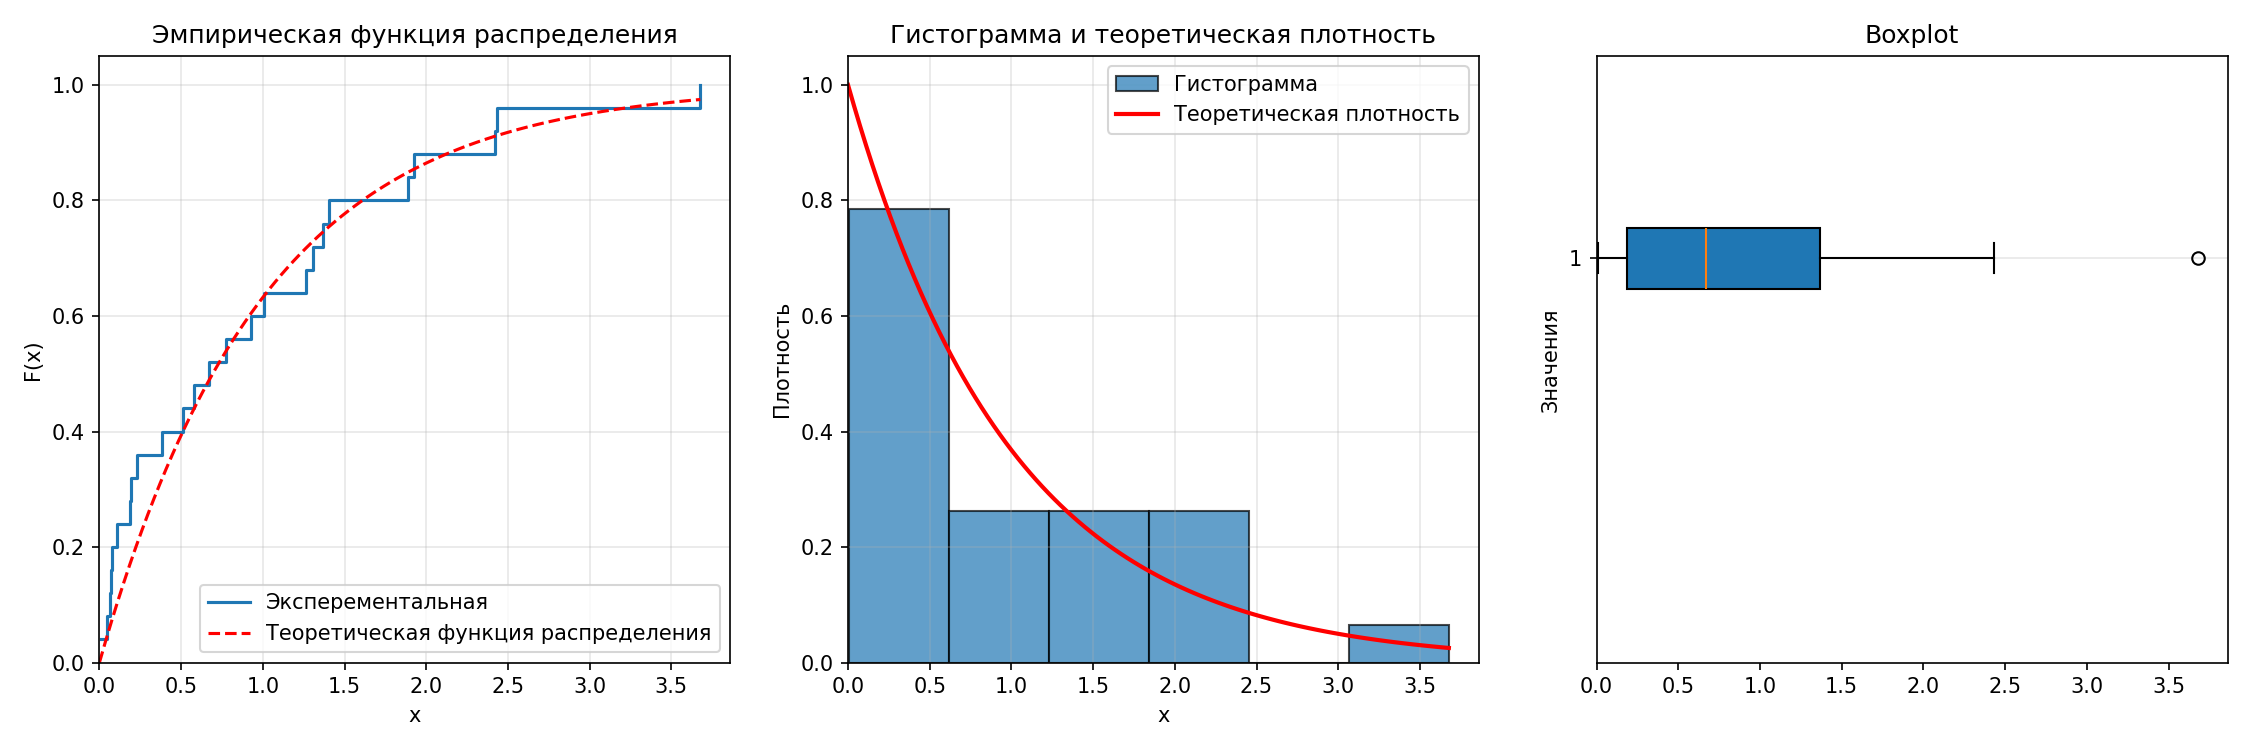
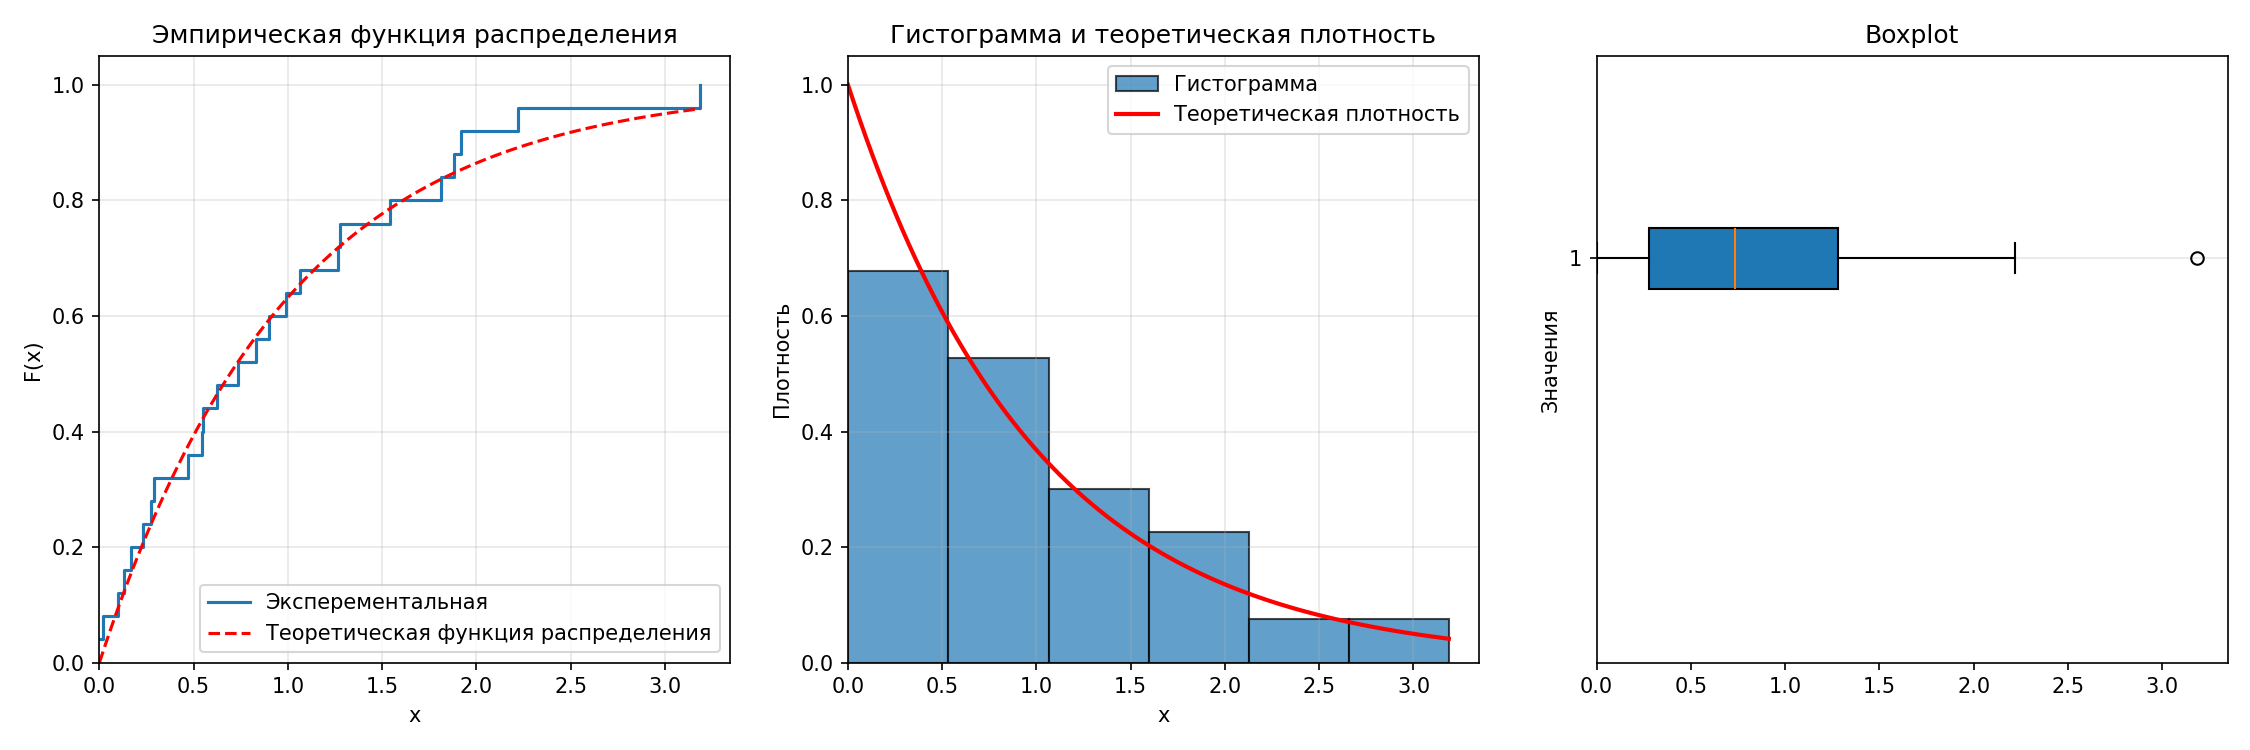
E-part of Task 2 compleated

diff --git a/T2.py b/T2.py
@@ -17,7 +17,7 @@ B = 1_000 # Бутстраповская переменная.
 Я заметил, что если брать B чуть больше, результат получается чуть точнее. 
 
 
-Он тоже завязан на случайных величинах, поэтому даже при B=100_000 местами получается нечто некрасивое
+Бутстрап тоже завязан на случайных величинах(А именно при случайном выборе элеметнов), поэтому даже при B=100_000 местами получается нечто некрасивое
 """
 
 
@@ -211,8 +211,61 @@ def task_d(sample: np.array) -> None:
 
 
 
-def task_e():
-    pass
+def task_e(sample: np.array):
+    theoretical_median = np.log(2)
+    f_median = 0.5
+    median = find_median(sample)
+    asymptotic_se_median = 1 / (2 * np.sqrt(N) * f_median)
+
+    print(f"Теоретическая медиана Exp(1): {theoretical_median:.4f}")
+    print(f"Выборочная медиана: {median:.4f}")
+    print(f"Асимптотическая стандартная ошибка медианы: {asymptotic_se_median:.4f}")
+
+    bootstrap_medians = []
+
+    for _ in range(B):
+        bootstrap_sample = np.random.choice(sample, size=N, replace=True)
+        bootstrap_medians.append(np.median(bootstrap_sample))
+
+    bootstrap_medians = np.array(bootstrap_medians)
+
+    bootstrap_se_median = np.std(bootstrap_medians, ddof=1)
+    print(f"Бутстраповская стандартная ошибка медианы: {bootstrap_se_median:.4f}")
+
+    fig, axes = plt.subplots(1, 2, figsize=(12, 5))
+
+    """Гистограмма бутстраповских медиан и асимптотическое нормальное приближение"""
+    ax = axes[0]
+    ax.hist(bootstrap_medians, bins=30, density=True, alpha=0.7, edgecolor='black', label='Бутстрап-медианы')
+
+    x_norm_median = np.linspace(min(bootstrap_medians), max(bootstrap_medians), 100)
+    y_norm_median_theor = 1/(np.sqrt(2*np.pi)*asymptotic_se_median) * np.exp(-(x_norm_median - theoretical_median)**2/(2*asymptotic_se_median**2))
+    ax.plot(x_norm_median, y_norm_median_theor, 'r-', linewidth=2, label='Асимптот. нормальное (теор. медиана)')
+
+    ax.set_xlabel('Медиана')
+    ax.set_ylabel('Плотность')
+    ax.set_title('Распределение выборочной медианы')
+    ax.set_xlim(0)
+    ax.set_ylim(0)
+    ax.legend()
+    ax.grid(True, alpha=0.3)
+
+    ax = axes[1]
+    kde_median = gaussian_kde(bootstrap_medians)
+    x_kde = np.linspace(min(bootstrap_medians), max(bootstrap_medians), 200)
+    ax.plot(x_kde, kde_median(x_kde), 'b-', linewidth=2, label='бутстрап')
+
+    ax.plot(x_norm_median, y_norm_median_theor, 'r-', linewidth=2, label='Асимптот. нормальное (теор.)')
+
+    ax.set_xlabel('Медиана')
+    ax.set_ylabel('Плотность')
+    ax.set_title('KDE распределения медианы vs асимптотика')
+    ax.legend()
+    ax.grid(True, alpha=0.3)
+
+    plt.tight_layout()
+    plt.savefig('imgs/task_e_median_bootstrap.png', dpi=150)
+    plt.show()
 
 
 if __name__ == '__main__':
@@ -250,5 +303,5 @@ if __name__ == '__main__':
     print("\n\n" + "=" * 50)
     print("ЗАДАНИЕ e)")
     print(("="*50) + "\n")
-    task_d(data)
+    task_e(data)
 
